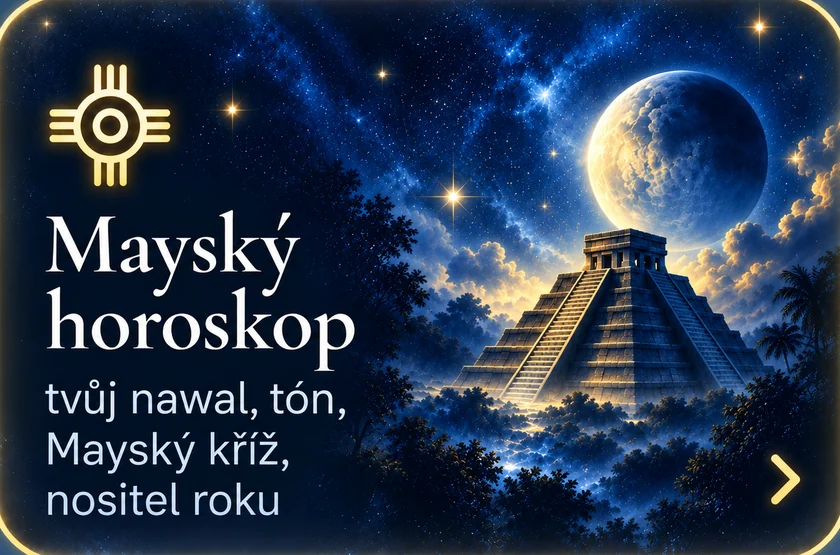
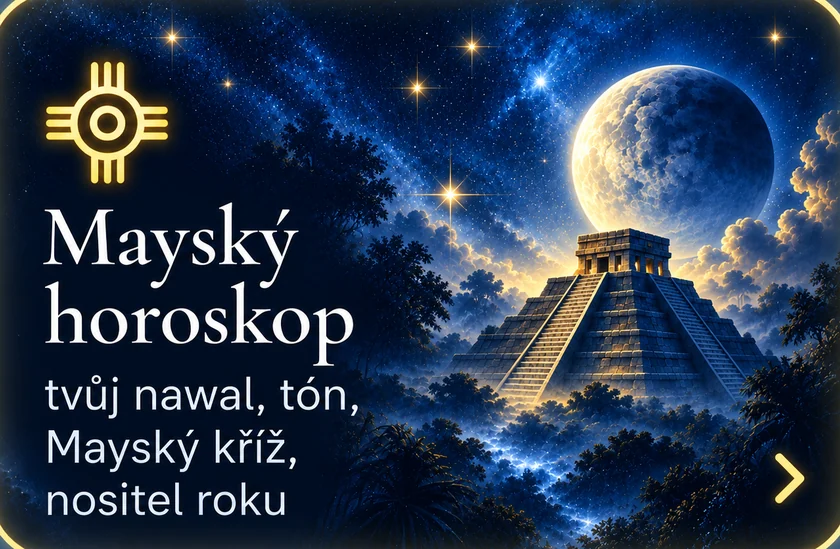
Nove verze karet Maysky a Cinsky horoskop + SW v369

diff --git a/sw.js b/sw.js
@@ -1,6 +1,6 @@
 /* Kairos – service worker. Při každé změně index.html zvedni číslo verze. */
-const CACHE = 'kairos-v368';
-const SHELL = ['./', './index.html', './styles.css?v=368', './kairos-core.js?v=368', './data.js?v=368', './app.js?v=368', './astronomy.browser.min.js', './manifest.webmanifest', './logo.png', './logo-emblem.webp?v=1', './cyklus-dne.webp?v=1', './cat-vse.webp?v=2', './cat-portal.webp?v=2', './cat-osobni.webp?v=2', './cat-priroda.webp?v=2', './cat-zatmeni.webp?v=2', './cat-luna.webp?v=2', './cat-planety.webp?v=2', './cat-hvezdy.webp?v=2', './cat-roje.webp?v=2', './cat-slunce.webp?v=2', './cat-komety.webp?v=2', './tile-mapa.webp?v=10', './tile-prochazis.webp?v=10', './tile-vztahy.webp?v=10', './tile-horoskop.webp?v=10', './tile-cisla.webp?v=10', './tile-cakra.webp?v=10', './tile-navraty.webp?v=10', './tile-hvezdy.webp?v=10', './tile-maya.webp?v=10', './tile-cina.webp?v=10', './logo-stars.webp?v=1', './moon-tex.png?v=1', './icon-192.png', './icon-512.png', './icon-maskable-512.png', './sky-day.webp?v=7', './sky-night.webp?v=4', './sky-night-hd2.webp?v=1', './sky-day-hd2.webp?v=1'];
+const CACHE = 'kairos-v369';
+const SHELL = ['./', './index.html', './styles.css?v=369', './kairos-core.js?v=369', './data.js?v=369', './app.js?v=369', './astronomy.browser.min.js', './manifest.webmanifest', './logo.png', './logo-emblem.webp?v=1', './cyklus-dne.webp?v=1', './cat-vse.webp?v=2', './cat-portal.webp?v=2', './cat-osobni.webp?v=2', './cat-priroda.webp?v=2', './cat-zatmeni.webp?v=2', './cat-luna.webp?v=2', './cat-planety.webp?v=2', './cat-hvezdy.webp?v=2', './cat-roje.webp?v=2', './cat-slunce.webp?v=2', './cat-komety.webp?v=2', './tile-mapa.webp?v=11', './tile-prochazis.webp?v=11', './tile-vztahy.webp?v=11', './tile-horoskop.webp?v=11', './tile-cisla.webp?v=11', './tile-cakra.webp?v=11', './tile-navraty.webp?v=11', './tile-hvezdy.webp?v=11', './tile-maya.webp?v=11', './tile-cina.webp?v=11', './logo-stars.webp?v=1', './moon-tex.png?v=1', './icon-192.png', './icon-512.png', './icon-maskable-512.png', './sky-day.webp?v=7', './sky-night.webp?v=4', './sky-night-hd2.webp?v=1', './sky-day-hd2.webp?v=1'];
 
 self.addEventListener('install', (e) => {
   e.waitUntil(caches.open(CACHE).then((c) => c.addAll(SHELL.map((u) => new Request(u, { cache: 'reload' })))).then(() => self.skipWaiting()));

diff --git a/app.js b/app.js
@@ -1,6 +1,6 @@
 (function () {
   'use strict';
-  const VERSION = 'v368';
+  const VERSION = 'v369';
   const A = Astronomy;
   const K = createKairosEngine(A);
   const TX = createKairosTexts(K);
@@ -3734,7 +3734,7 @@ ${parts}
     ].filter(t => t[0] !== 'cisla' || settings.numerology !== false);
     if (view === 'menu') {
       const arcS = arcSentence();
-      v.innerHTML = natalHead + (arcS ? `<p class="nnow"><span class="tvlab">tvůj den</span>${esc(arcS)}</p>` : '') + `<div class="ntiles">${TILES.map(([id, ic, t, sub, kind, noimg]) => noimg ? `<button type="button" class="ntile txt ${kind || ''}" data-act="natalView" data-v="${id}"><span class="ic">${ic}</span><b>${t}</b><small>${sub}</small><span class="chev">›</span></button>` : `<button type="button" class="ntile img ${kind || ''}" data-act="natalView" data-v="${id}" aria-label="${t} — ${sub}"><img src="tile-${id}.webp?v=10" alt="" width="420" height="317"></button>`).join('')}</div>`+ `<p class="note astrolink"><button type="button" class="linkbtn" data-act="natalView" data-v="efemeridy">Podrobnosti — pro astrologa: Efemeridy ›</button></p>`;
+      v.innerHTML = natalHead + (arcS ? `<p class="nnow"><span class="tvlab">tvůj den</span>${esc(arcS)}</p>` : '') + `<div class="ntiles">${TILES.map(([id, ic, t, sub, kind, noimg]) => noimg ? `<button type="button" class="ntile txt ${kind || ''}" data-act="natalView" data-v="${id}"><span class="ic">${ic}</span><b>${t}</b><small>${sub}</small><span class="chev">›</span></button>` : `<button type="button" class="ntile img ${kind || ''}" data-act="natalView" data-v="${id}" aria-label="${t} — ${sub}"><img src="tile-${id}.webp?v=11" alt="" width="420" height="317"></button>`).join('')}</div>`+ `<p class="note astrolink"><button type="button" class="linkbtn" data-act="natalView" data-v="efemeridy">Podrobnosti — pro astrologa: Efemeridy ›</button></p>`;
       return;
     }
     const tile = TILES.find(t => t[0] === view) || (view === 'efemeridy' ? ['efemeridy', '≡', 'Efemeridy', ''] : view === 'smerClose' ? ['smer', '➶', 'Sklizeň', ''] : TILES[0]);

diff --git a/index.html b/index.html
@@ -25,7 +25,7 @@ var mt=document.querySelector('meta[name=theme-color]');if(mt)mt.setAttribute('c
 <link rel="preconnect" href="https://fonts.googleapis.com">
 <link rel="preconnect" href="https://fonts.gstatic.com" crossorigin>
 <link rel="stylesheet" href="https://fonts.googleapis.com/css2?family=Cormorant+Garamond:ital,wght@0,500;0,600;1,500&family=IBM+Plex+Sans:wght@400;500;600&family=IBM+Plex+Mono:wght@400;500&display=swap">
-<link rel="stylesheet" href="styles.css?v=368">
+<link rel="stylesheet" href="styles.css?v=369">
 </head>
 <body>
 <div id="splash" aria-hidden="true"><img class="sp-em" src="logo-emblem.webp?v=1" alt=""><span class="bname"><i class="l1"><b>NEBESKÝ</b></i><i class="l2"><b>KOMPAS</b></i></span><img class="sp-st" src="logo-stars.webp?v=1" alt=""><span class="claim sp-cl"><i>tvůj</i><i class="mid">hvězdný</i><i class="big">kalendář</i></span></div>
@@ -55,8 +55,8 @@ var mt=document.querySelector('meta[name=theme-color]');if(mt)mt.setAttribute('c
 <button type="button" class="backbtn" id="backBtn" aria-label="Zpět, odkud jsi přišel">‹ Zpět</button>
 <div class="upbar" id="upbar" role="status"><span><b>Nová verze je připravená</b>Obnov a máš ji hned.</span><button type="button" id="upGo">Obnovit</button><button type="button" class="upx" id="upX" aria-label="Zavřít">×</button></div>
 <script src="astronomy.browser.min.js"></script>
-<script src="kairos-core.js?v=368"></script>
-<script src="data.js?v=368"></script>
-<script src="app.js?v=368"></script>
+<script src="kairos-core.js?v=369"></script>
+<script src="data.js?v=369"></script>
+<script src="app.js?v=369"></script>
 </body>
 </html>
